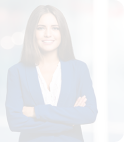
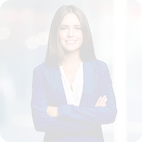
Добавляет ретинизацию фоновых изображений на главной странице

diff --git a/source/sass/blocks/03-pages/index/companions.scss b/source/sass/blocks/03-pages/index/companions.scss
@@ -20,6 +20,10 @@
   background-position: 100% top;
   background-size: 143px 143px;
 
+  @media (min-resolution: 2dppx) {
+    background-image: url("../img/smolov-back-desktop@2x.png");
+  }
+
   &::before {
     content: "";
     position: absolute;
@@ -77,21 +81,21 @@
     width: 71px;
     height: 71px;
 
-    background-image: url("../img/rogovaya-back-desktop.png");
+    background-image: url("../img/rogovaya-back-mobile.png");
     background-repeat: no-repeat;
     background-position: center top;
     background-size: cover;
     border-radius: 10px;
+
+    @media (min-resolution: 2dppx) {
+      background-image: url("../img/rogovaya-back-mobile@2x.png");
+    }
   }
 }
 
 .companions__item {
   position: relative;
   margin-bottom: 9px;
-
-  &:last-child {
-    margin-bottom: 0;
-  }
 }
 
 @media (max-width: $mobile-width-only) {
@@ -112,6 +116,10 @@
     background-image: url("../img/rogovaya-back-desktop.png");
     background-position: 91.5% 9px;
     background-size: 285px 285px;
+
+    @media (min-resolution: 2dppx) {
+      background-image: url("../img/rogovaya-back-desktop@2x.png");
+    }
 
     &::before {
       left: 0;
@@ -159,11 +167,14 @@
 
       background-image: url("../img/smolov-back-desktop.png");
       border-radius: 20px;
+
+      @media (min-resolution: 2dppx) {
+        background-image: url("../img/smolov-back-desktop@2x.png");
+      }
     }
   }
 
-  .companions__item,
-  .companions__item:last-child {
+  .companions__item {
     width: 285px;
     margin-bottom: 50px;
   }
@@ -191,7 +202,7 @@
 
     display: grid;
     grid-template-columns: 1fr 1fr;
-    grid-template-rows: 1fr min-content;
+    grid-template-rows: min-content min-content;
     column-gap: 60px;
 
     background-position: 130px 316px;
@@ -200,11 +211,16 @@
   .companions__header {
     grid-column: 1;
     grid-row: 1;
+    margin-bottom: 35px;
 
     background-image: url("../img/smolov-back-desktop.png");
     background-repeat: no-repeat;
     background-position: 100% top;
     background-size: 143px 143px;
+
+    @media (min-resolution: 2dppx) {
+      background-image: url("../img/smolov-back-desktop@2x.png");
+    }
   }
 
   .companions__text {
@@ -218,20 +234,17 @@
     justify-content: space-between;
 
     padding: 8px 0 0 0;
-    margin-bottom: auto;
+    margin-bottom: 0;
 
     &::before {
       opacity: 0;
     }
   }
 
-  .companions__item,
-  .companions__item:last-child {
-    margin-bottom: 0;
-  }
-
   .companions__show-all {
+    align-self: end;
     width: 280px;
     margin-left: 71px;
+    margin-bottom: 50px;
   }
 }

diff --git a/source/sass/blocks/03-pages/index/contacts.scss b/source/sass/blocks/03-pages/index/contacts.scss
@@ -6,6 +6,10 @@
   background-repeat: no-repeat;
   background-position: center;
   background-size: 320px 424px;
+
+  @media (min-resolution: 2dppx) {
+    background-image: url("../img/map@2x.jpg");
+  }
 }
 
 .contacts__container {
@@ -54,6 +58,17 @@
 .contacts__map {
   height: 322px;
   width: 100%;
+
+  background-image: url("../img/map-marker.svg"),
+    url("../img/map.png");
+  background-repeat: no-repeat;
+  background-position: 55% 35%, 50% 50%;
+  background-size: 41px 41px, cover;
+
+  @media (min-resolution: 2dppx) {
+    background-image: url("../img/map-marker.svg"),
+      url("../img/map@2x.png");
+  }
 }
 
 @media (min-width: $tablet-width) {
@@ -83,6 +98,16 @@
 
   .contacts__map {
     height: 583px;
+
+    background-image: url("../img/map-marker.svg"),
+      url("../img/map-tablet.png");
+    background-position: 50% 45%, 50% 50%;
+    background-size: 56px 56px, cover;
+
+    @media (min-resolution: 2dppx) {
+      background-image: url("../img/map-marker.svg"),
+        url("../img/map-tablet@2x.png");
+    }
   }
 }
 
@@ -120,5 +145,14 @@
 
   .contacts__map {
     height: 516px;
+
+    background-image: url("../img/map-marker.svg"),
+      url("../img/map-desktop.png");
+    background-position: 46% 45%, 50% 50%;
+
+    @media (min-resolution: 2dppx) {
+      background-image: url("../img/map-marker.svg"),
+        url("../img/map-desktop@2x.png");
+    }
   }
 }

diff --git a/source/sass/blocks/03-pages/index/promo.scss b/source/sass/blocks/03-pages/index/promo.scss
@@ -24,6 +24,11 @@ $plan-shift: 80px;
   background-repeat: no-repeat;
   background-position: 62.5% 100%, center center;
   background-size: 192px 255px, cover;
+
+  @media (min-resolution: 2dppx) {
+    background-image: url("../img/traveller-illustration-mobile@2x.png"),
+      url("../img/globe-mobile@2x.png");
+  }
 }
 
 .promo__slogan {
@@ -120,7 +125,13 @@ $plan-shift: 80px;
     background-repeat: no-repeat;
     background-position: 72% 23px, center 100%;
     background-size: 372px 451px, 1479px 612px;
+
+    @media (min-resolution: 2dppx) {
+      background-image: url("../img/traveller-illustration-tablet@2x.png"),
+        url("../img/globe-tablet@2x.jpg");
+    }
   }
+
 
   .promo__quote {
     width: 264px;
@@ -157,6 +168,10 @@ $plan-shift: 80px;
     background-size: 1440px 750px;
     border-radius: 0 0 60px 60px;
     overflow: hidden;
+
+    @media (min-resolution: 2dppx) {
+      background-image: url("../img/globe-desktop@2x.png");
+    }
   }
 
   .promo__container {
@@ -173,6 +188,10 @@ $plan-shift: 80px;
     background-repeat: no-repeat;
     background-position: 544px 100%;
     background-size: 431px 640px;
+
+    @media (min-resolution: 2dppx) {
+      background-image: url("../img/traveller-illustration-desktop@2x.png");
+    }
   }
 
   .promo__header {

diff --git a/source/sass/blocks/03-pages/index/about.scss b/source/sass/blocks/03-pages/index/about.scss
@@ -12,6 +12,11 @@
   background-image: url("../img/about-mobile.png");
   background-repeat: no-repeat;
   background-position: 75% top;
+  background-size: 292px 353px;
+
+  @media (min-resolution: 2dppx) {
+    background-image: url("../img/about-mobile@2x.png");
+  }
 }
 
 .about__container {
@@ -84,6 +89,10 @@
       background-repeat: no-repeat;
       background-size: cover;
       background-position: 0 0;
+
+      @media (min-resolution: 2dppx) {
+        background-image: url("../img/about-tablet@2x.png");
+      }
     }
   }
 
@@ -119,7 +128,7 @@
 
     &::before,
     &::after {
-      opacity: 0;
+      display: none;
     }
   }
 
@@ -158,6 +167,10 @@
       background-repeat: no-repeat;
       background-size: cover;
       background-position: 0 0;
+
+      @media (min-resolution: 2dppx) {
+        background-image: url("../img/about-desktop@2x.png");
+      }
     }
   }
 

diff --git a/source/sass/blocks/03-pages/index/directions.scss b/source/sass/blocks/03-pages/index/directions.scss
@@ -50,6 +50,11 @@
     background-image: url("../img/flags-tablet.png");
     background-repeat: no-repeat;
     background-position: right 10px;
+    background-size: 288px 575px;
+
+    @media (min-resolution: 2dppx) {
+      background-image: url("../img/flags-tablet@2x.png");
+    }
   }
 
   .directions__header {
@@ -176,6 +181,7 @@
       height: 81px;
 
       background-image: linear-gradient(to bottom, rgba($bg-main-light, 0) 0, $bg-main-light 90%);
+      background-size: 100% 81px;
     }
   }
 

diff --git a/source/sass/blocks/03-pages/index/pricing-plan.scss b/source/sass/blocks/03-pages/index/pricing-plan.scss
@@ -27,6 +27,10 @@
     background-repeat: no-repeat;
     background-position: 0 0;
     background-size: contain;
+
+    @media (min-resolution: 2dppx) {
+      background-image: url("../img/rates@2x.png");
+    }
   }
 }
 
@@ -237,6 +241,10 @@
       height: 198px;
 
       background-image: url("../img/rates-desktop.png");
+
+      @media (min-resolution: 2dppx) {
+        background-image: url("../img/rates-desktop@2x.png");
+      }
     }
   }
 
